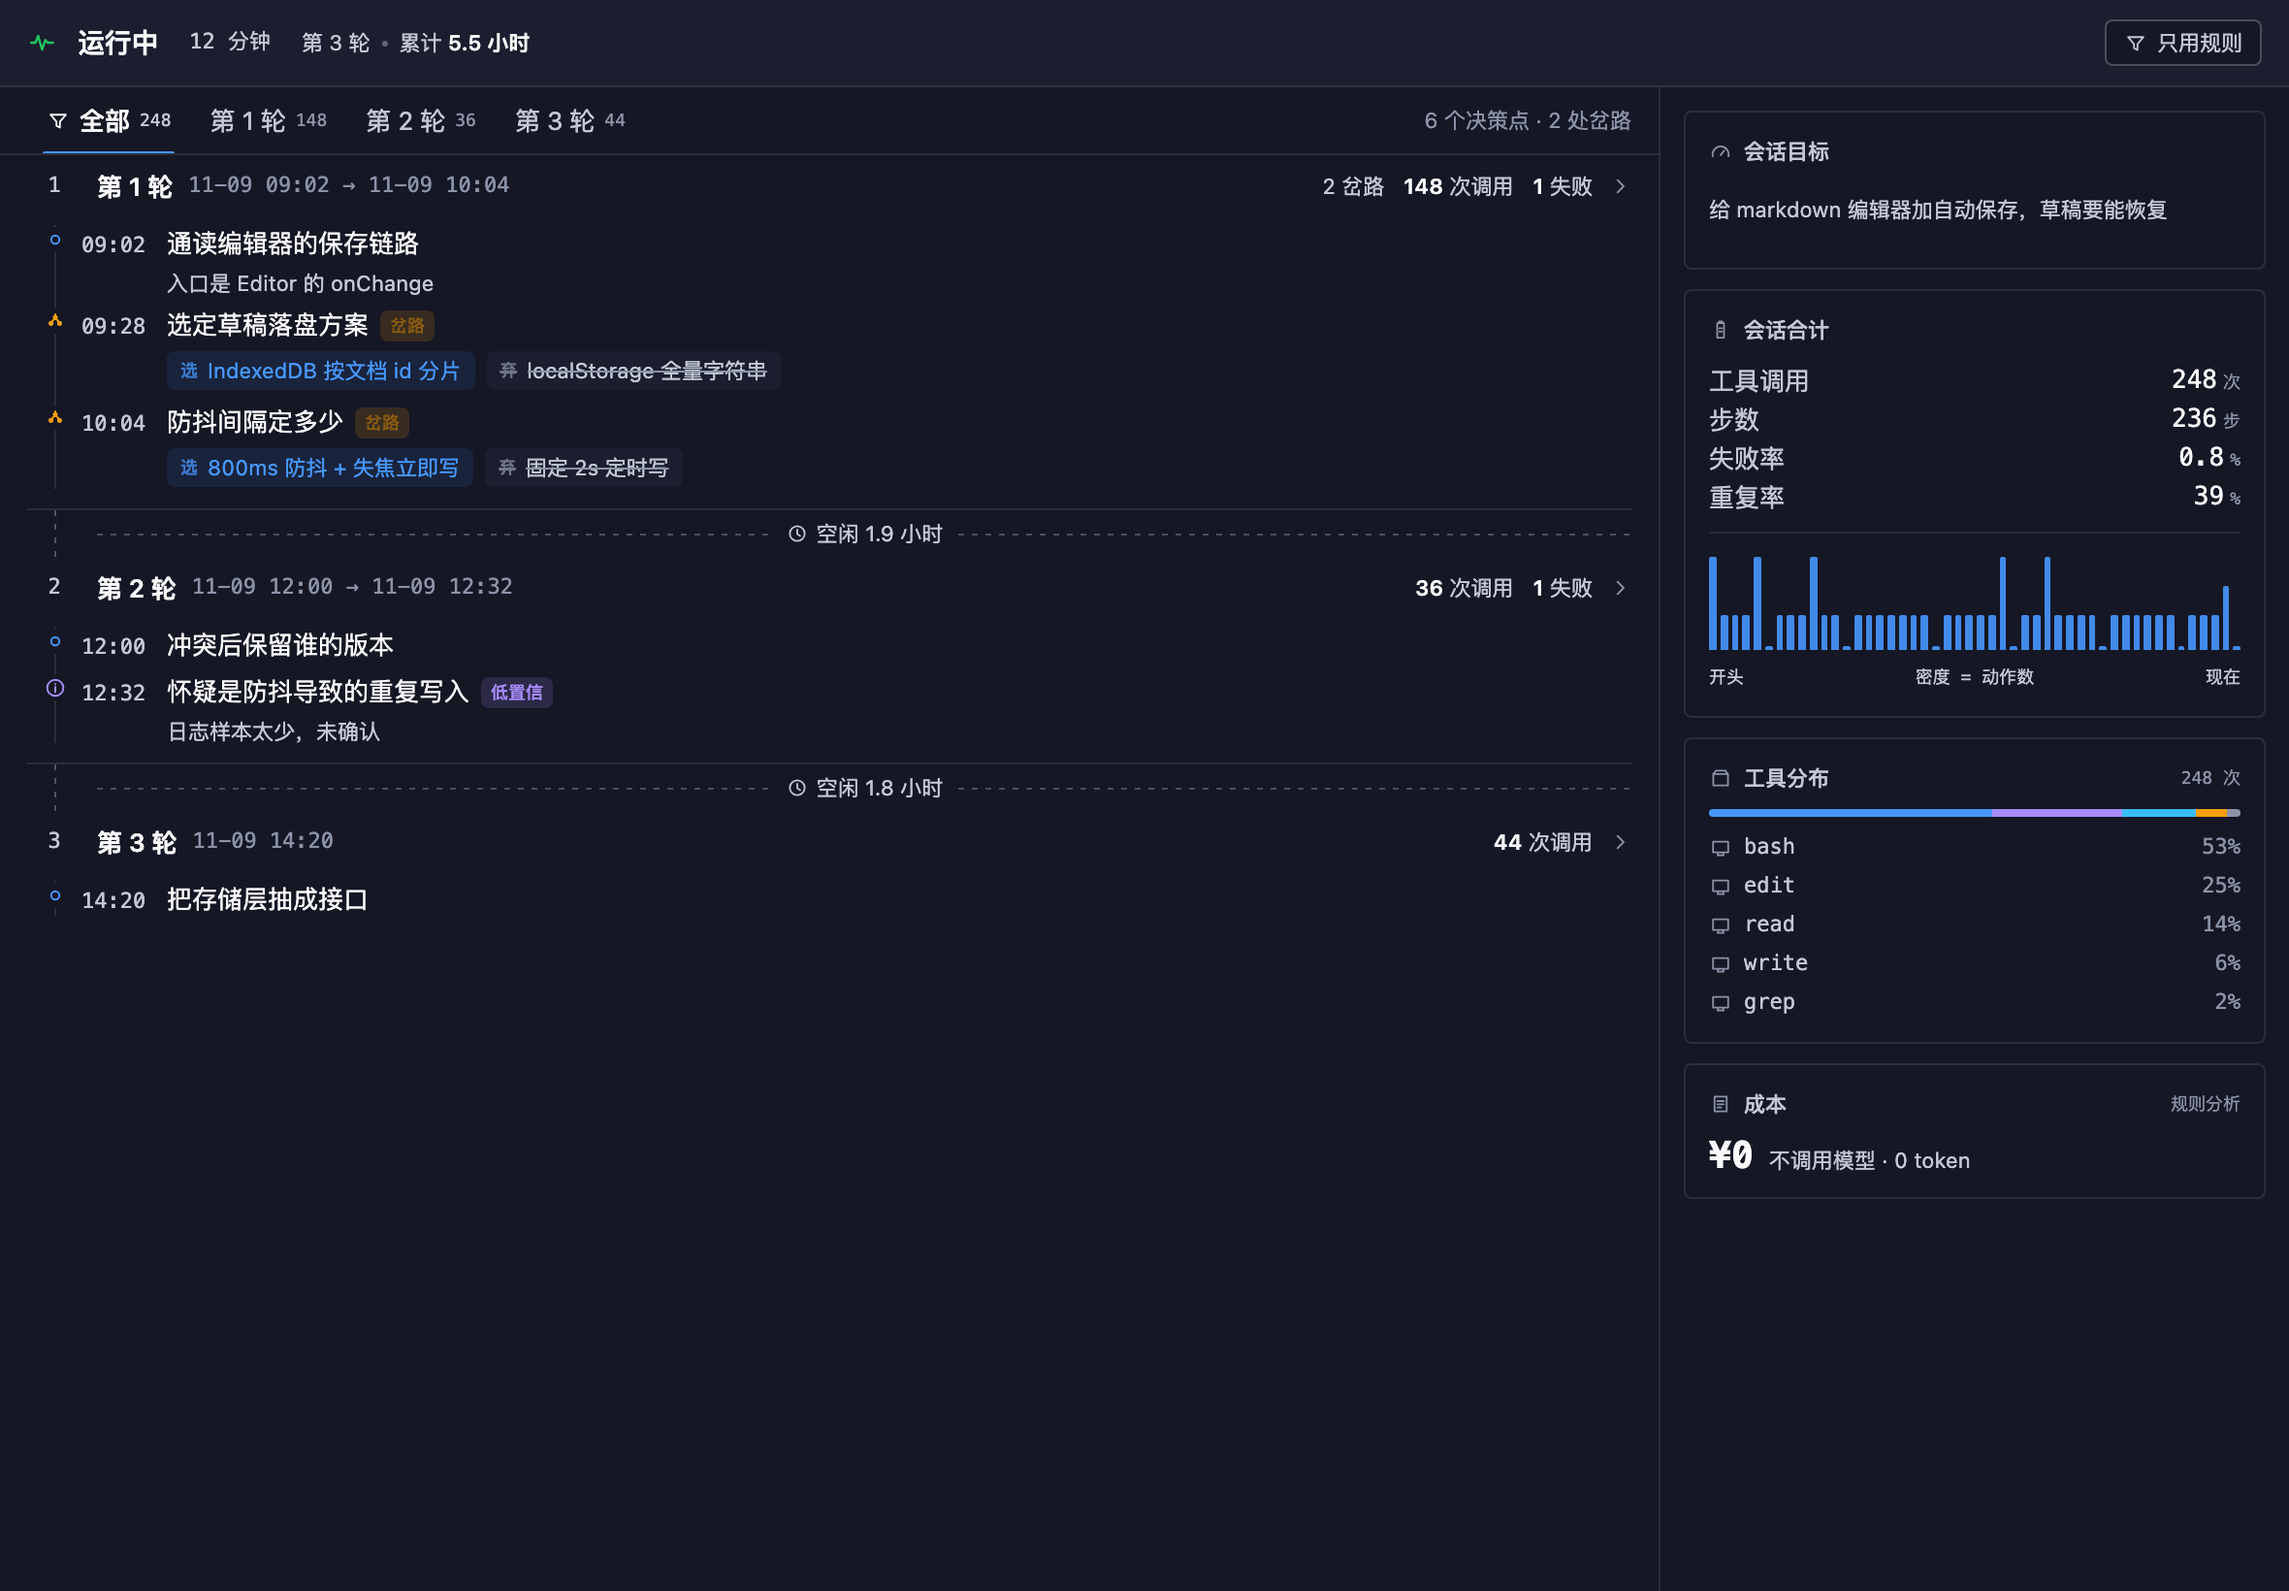
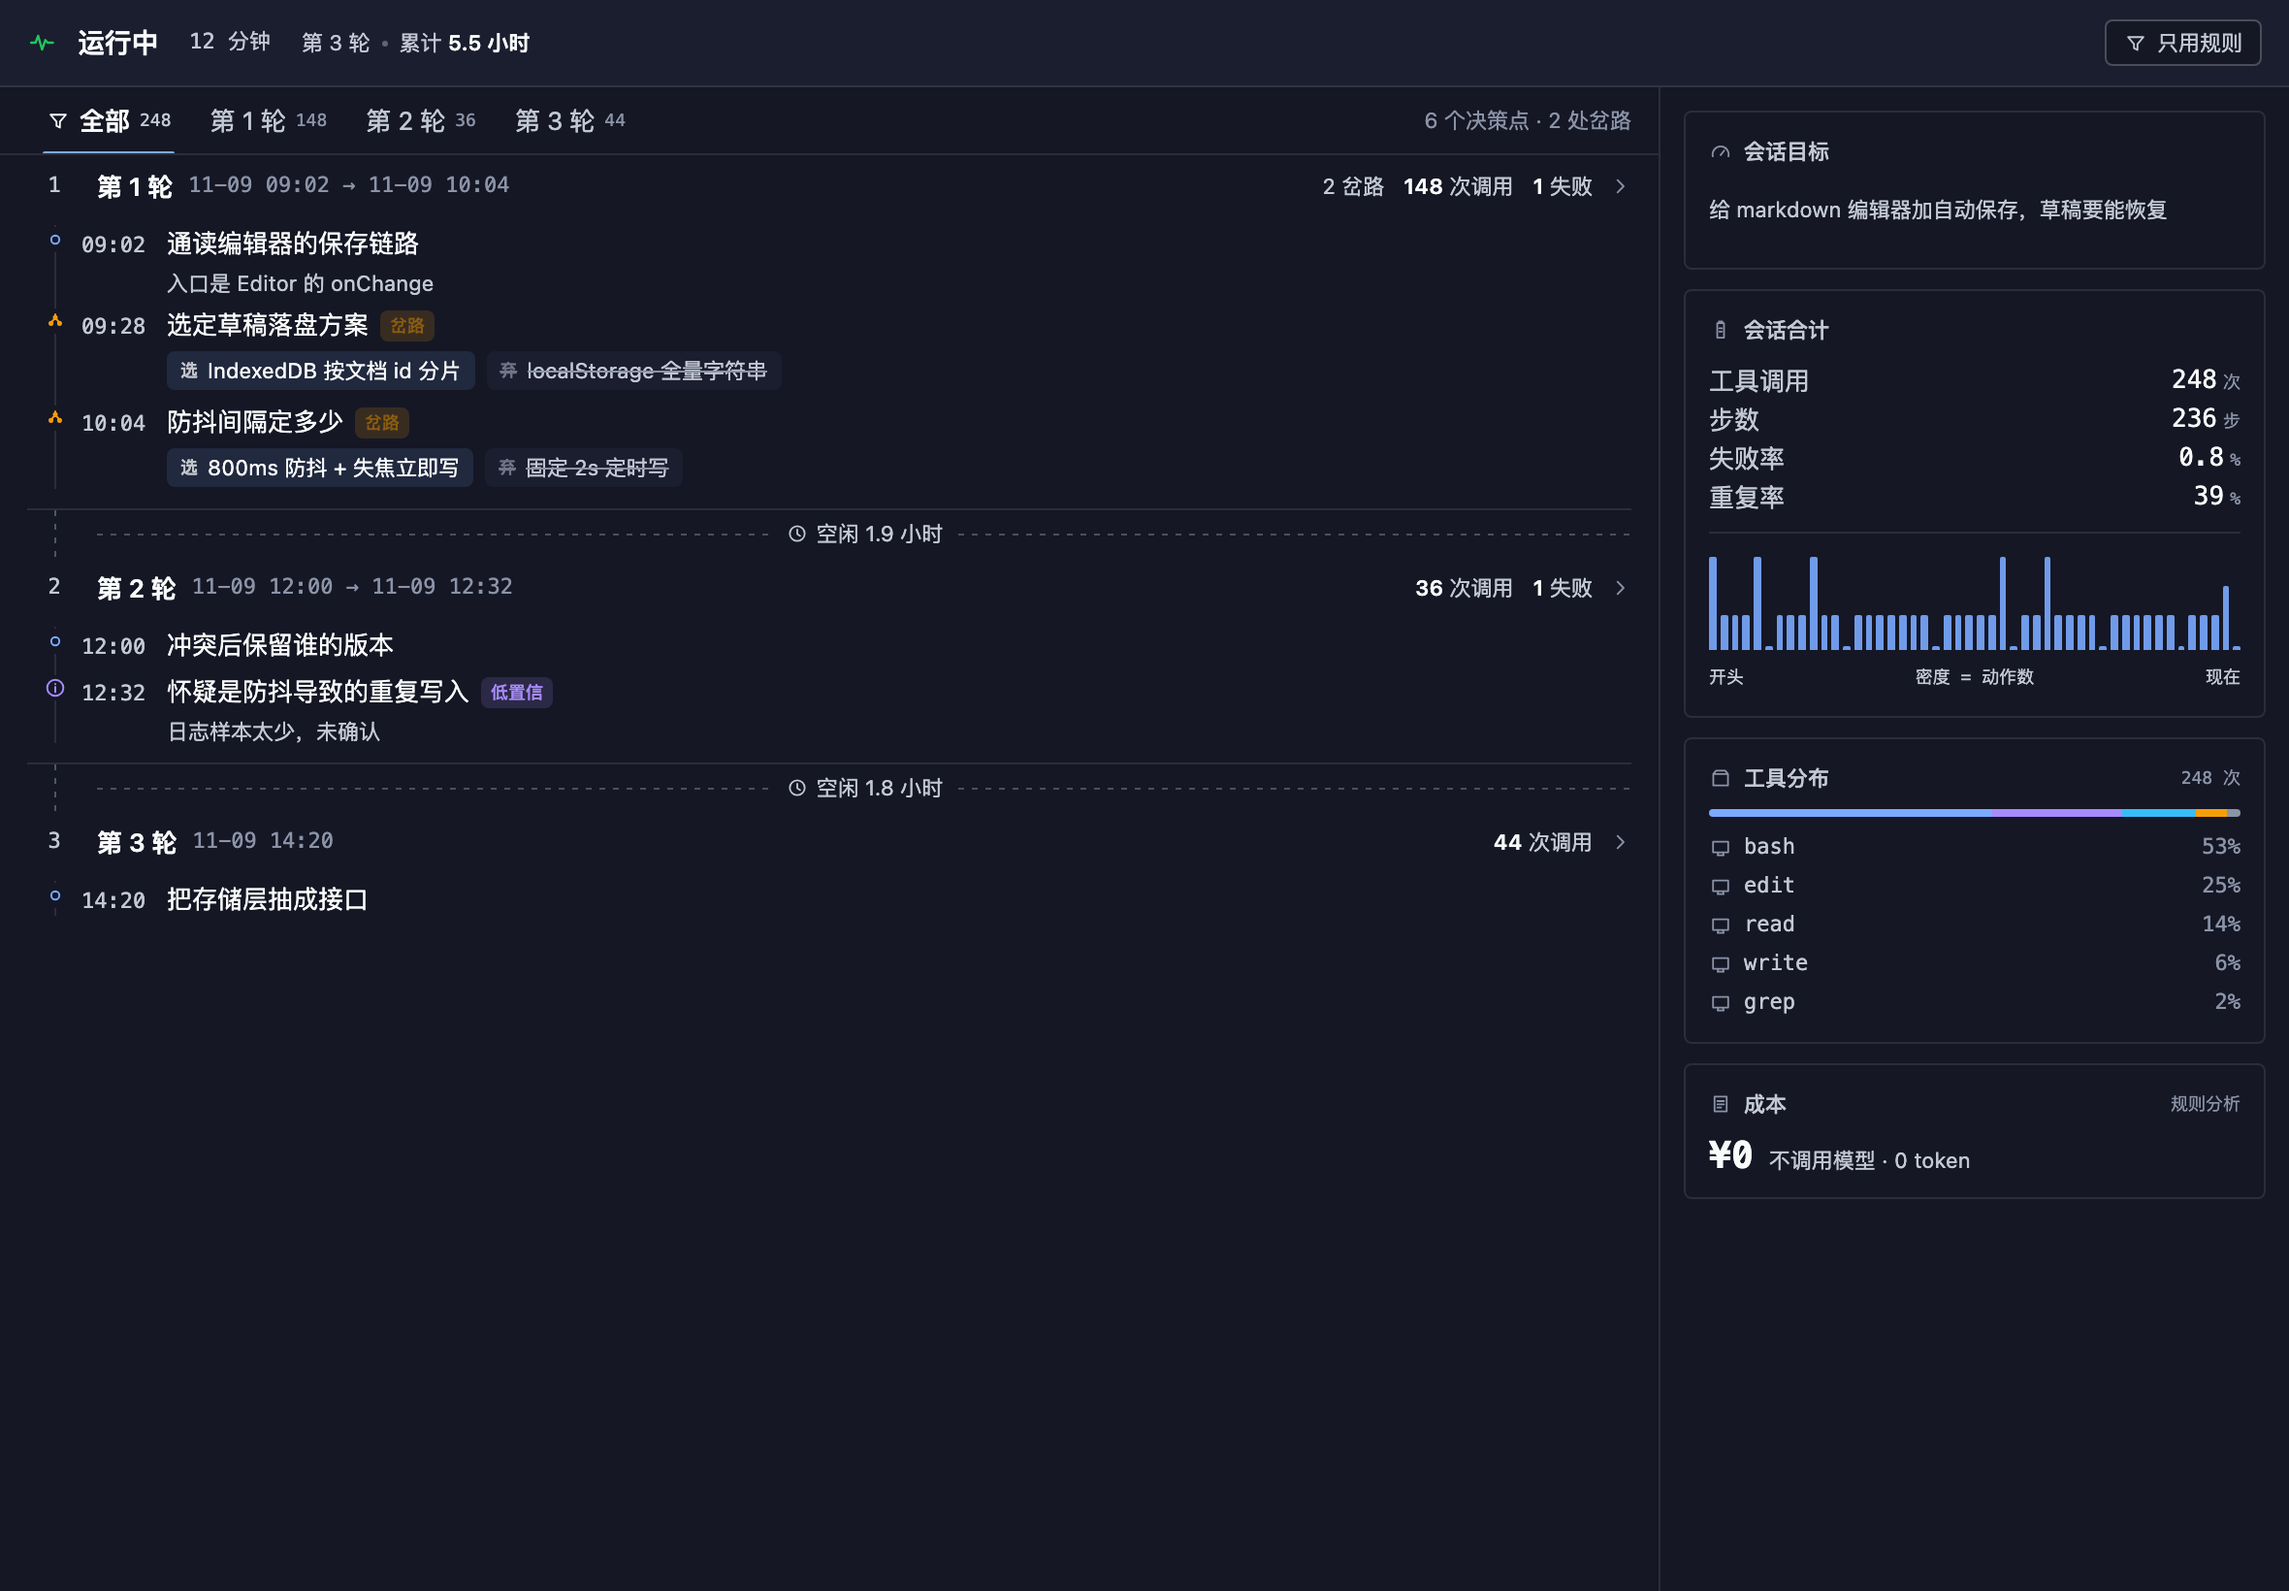
fix(client): stop assuming the host brand token is blue
--dsw-alias-brand-primary resolves to the neutral scale on the real host
(bluish-1000 in light, bluish-50 in dark), so reading it as an accent would
have turned every highlighted element black or white depending on theme.

The accent now comes from a link colour with a blue fallback, and it is only
used decoratively: underlines, markers, tinted pills. Everything that is text
sits on host ink, so contrast holds in both themes without knowing the host
palette.

The rendering harness now injects the real token values (brand-primary =
#0f1115 / #f9fafa) instead of a blue, which is what exposed this.

diff --git a/client.js b/client.js
@@ -84,7 +84,10 @@ window.__ModuleLoader__.load({
   --svo-line-2:var(--dsw-alias-border-l3);
   --svo-surface:var(--dsw-alias-bg-base);
   --svo-surface-2:var(--dsw-alias-bg-layer-2);
-  --svo-blue:var(--dsw-alias-brand-primary,#006eff);
+  /* 强调色只用于装饰（下划线、标记、淡底）。
+     **不读 --dsw-alias-brand-primary**：宿主那个令牌实测指向中性色阶
+     （bluish-1000 / bluish-50），拿它当蓝用会在真机上变成黑白。 */
+  --svo-blue:var(--dsw-alias-link-text,#2f6fe4);
   --svo-run:#22c55e;
   --svo-mile:#38bdf8;
   --svo-fork:#f59e0b;
@@ -175,7 +178,7 @@ window.__ModuleLoader__.load({
 .svo-turn.on .svo-arrow{transform:rotate(90deg);color:var(--svo-blue)}
 .svo-turn.on .svo-thead{background:color-mix(in srgb,var(--svo-blue) 7%,transparent);
   box-shadow:inset 2px 0 0 var(--svo-blue)}
-.svo-turn.on .svo-tnum,.svo-turn.on .svo-tname{color:var(--svo-blue)}
+.svo-turn.on .svo-tnum,.svo-turn.on .svo-tname{color:var(--svo-ink)}
 
 /* 决策行 */
 .svo-rows{position:relative;padding:2px 0 6px}
@@ -198,7 +201,7 @@ window.__ModuleLoader__.load({
 .svo-rsub{font-size:11px;line-height:18px;color:var(--svo-ink-2);margin-left:44px}
 .svo-go{margin-left:auto;align-self:center;padding-right:4px;opacity:0;
   color:var(--svo-ink-3);transition:opacity .12s var(--ds-ease-in-out)}
-.svo-row.can:hover .svo-go{opacity:1;color:var(--svo-blue)}
+.svo-row.can:hover .svo-go{opacity:1;color:var(--svo-ink)}
 
 .svo-tag{display:inline-flex;align-items:center;gap:3px;height:16px;padding:0 5px;
   margin-left:6px;border-radius:4px;corner-shape:round;font-size:9px;font-weight:500;
@@ -212,7 +215,7 @@ window.__ModuleLoader__.load({
   border-radius:4px;corner-shape:round;font-size:11px;max-width:100%}
 .svo-opt span{overflow:hidden;text-overflow:ellipsis;white-space:nowrap}
 .svo-opt b{font-size:9px;font-weight:600;opacity:.75;flex:none}
-.svo-opt.take{background:color-mix(in srgb,var(--svo-blue) 10%,transparent);color:var(--svo-blue)}
+.svo-opt.take{background:color-mix(in srgb,var(--svo-blue) 12%,transparent);color:var(--svo-ink)}
 .svo-opt.drop{background:var(--dsw-alias-bg-layer-2);color:var(--svo-ink-2);
   text-decoration:line-through;text-decoration-color:var(--svo-ink-3)}
 .svo-opt.drop b{text-decoration:none;color:var(--svo-ink-3)}

diff --git a/dev/harness/index.html b/dev/harness/index.html
@@ -5,12 +5,12 @@
   :root{--dsw-alias-label-primary:#212327;--dsw-alias-label-secondary:#50565e;--dsw-alias-label-tertiary:#676f79;
     --dsw-alias-border-l1:rgba(33,35,39,.07);--dsw-alias-border-l3:rgba(33,35,39,.2);
     --dsw-alias-bg-base:#fff;--dsw-alias-bg-layer-2:#f4f5f6;--dsw-alias-bg-hover:rgba(33,35,39,.05);
-    --dsw-alias-brand-primary:#006eff;--ds-ease-in-out:cubic-bezier(.16,1,.3,1);
+    --dsw-alias-brand-primary:#0f1115;--dsw-alias-link-text:#2f6fe4;--ds-ease-in-out:cubic-bezier(.16,1,.3,1);
     --dsw-font-xs-13:13px/20px Inter,system-ui,sans-serif;--dsw-font-mono:ui-monospace,Menlo,monospace}
   .dark{--dsw-alias-label-primary:#f9fafa;--dsw-alias-label-secondary:#c2c8d4;--dsw-alias-label-tertiary:#8b93a7;
     --dsw-alias-border-l1:rgba(249,250,250,.1);--dsw-alias-border-l3:rgba(249,250,250,.24);
     --dsw-alias-bg-base:#151725;--dsw-alias-bg-layer-2:#1b1e2e;--dsw-alias-bg-hover:rgba(249,250,250,.06);
-    --dsw-alias-brand-primary:#4797ff}
+    --dsw-alias-brand-primary:#f9fafa;--dsw-alias-link-text:#7aaaff}
 </style></head>
 <body><div id="host"></div>
 <script src="./node_modules/react/umd/react.development.js"></script>

diff --git a/README.zh.md b/README.zh.md
@@ -296,7 +296,8 @@ for (const event of events) {
 
 | 版本 | 内容 | 状态 |
 |---|---|---|
-| **0.5.0** | v9 版式落地成真正的视图：轮次分节、岔路两路、右侧统计栏、跟随宿主主题；宿主侧新增 `tool_mix` / `turn_stats` / 节点 `turn` | 本版本 |
+| **0.5.1** | 修正：强调色不再读 `--dsw-alias-brand-primary`——宿主上那个令牌指向中性色阶，照它取色会让界面在真机上变成黑白；现在改用链接色，兜底是蓝，蓝底上的文字一律用宿主墨色 | 本版本 |
+| 0.5.0 | v9 版式落地成真正的视图：轮次分节、岔路两路、右侧统计栏、跟随宿主主题；宿主侧新增 `tool_mix` / `turn_stats` / 节点 `turn` | 本版本 |
 | 0.4.2 | 双通道：原生 RPC 失败时自挂 `webServer` 路由，CLI 与 App 都能连；事件压成 `beats`（工具/失败/发言/轮次起点），为慢放做准备；判决文案改成白话（运行中/停滞/异常/待确认/高风险） | 本版本 |
 | 0.3.1 | 判决视图：三层卡住判定 + 密度带 + 决策点脊线 | 已发布 |
 | v1 | 把折叠升级成真正的 `dsh-session-projection` 单元，客户端直接读投影、不再轮询 RPC | 计划 |

diff --git a/README.md b/README.md
@@ -300,7 +300,8 @@ for (const event of events) {
 
 | version | contents | status |
 |---|---|---|
-| **0.5.0** | the v9 layout is now the real view: turn sections, forked roads, side panel, host-token theming; host emits `tool_mix` / `turn_stats` / per-node `turn` | this release |
+| **0.5.1** | fix: the accent no longer reads `--dsw-alias-brand-primary` — that token resolves to the neutral scale on the real host, so the view would have gone black-and-white; it now uses a link colour with a blue fallback, and every label sits on host ink | this release |
+| 0.5.0 | the v9 layout is now the real view: turn sections, forked roads, side panel, host-token theming; host emits `tool_mix` / `turn_stats` / per-node `turn` | this release |
 | 0.4.2 | transport: fall back to a self-mounted `webServer` route when native RPC throws, so CLI and desktop both connect; events folded into `beats`; plain-language verdicts | this release |
 | 0.3.1 | verdict view: three-layer stuck detection, density band, decision spine | released |
 | v1 | promote the fold into a real `dsh-session-projection` unit so the client reads the projection instead of polling RPC | planned |
